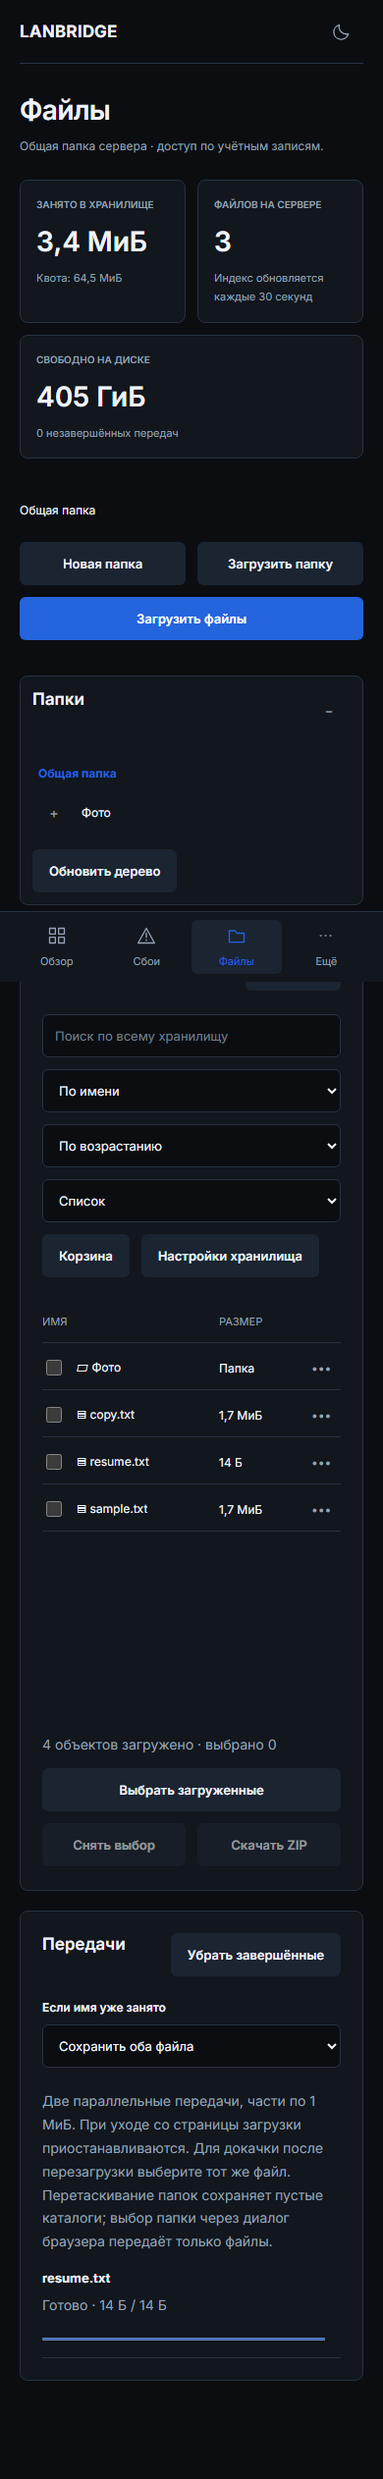
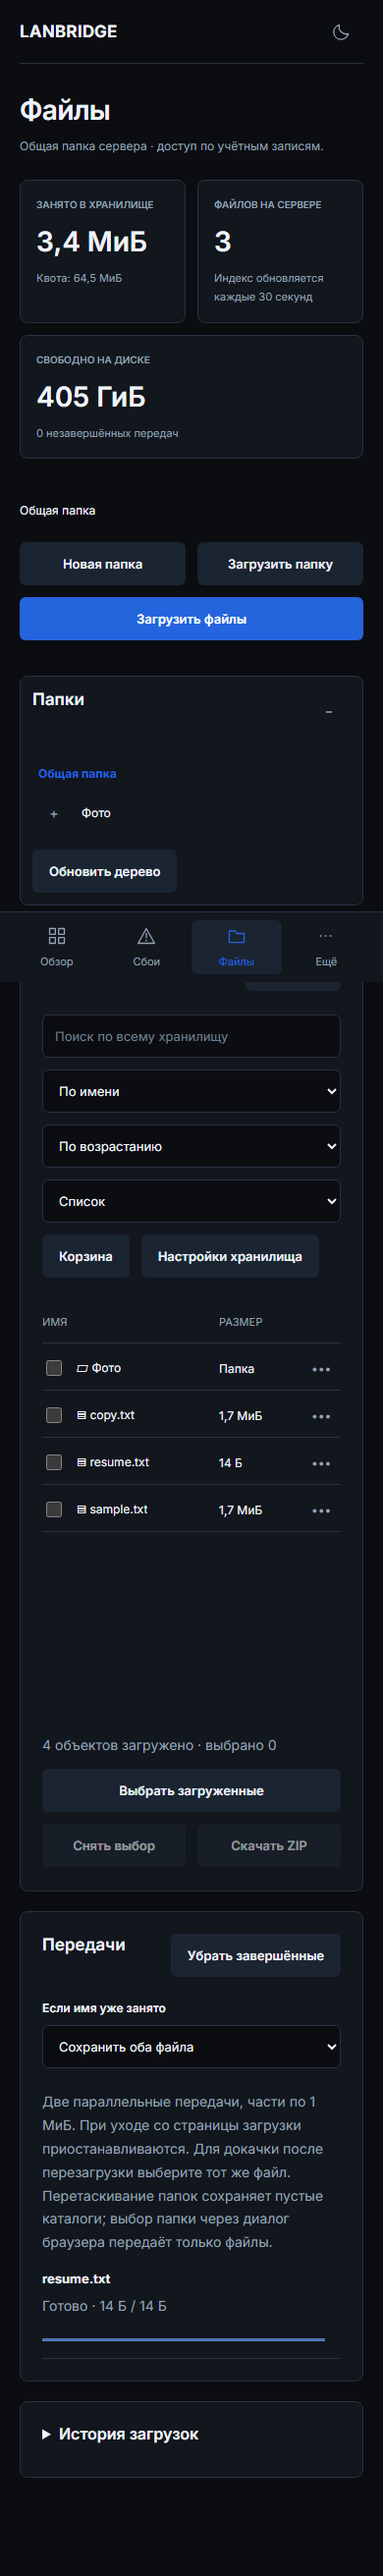
feat: show completed upload history

diff --git a/web/src/files.js b/web/src/files.js
@@ -4,6 +4,7 @@ import htm from 'htm';
 import {StorageSettings} from './storage-settings.js';
 import {FilePreview} from './file-preview.js';
 import {FolderTree} from './folder-tree.js';
+import {UploadHistory} from './upload-history.js';
 const html=htm.bind(h);
 export const bytes=n=>{if(!n)return '0 Б';const k=Math.min(4,Math.floor(Math.log(n)/Math.log(1024)));return (n/1024**k).toLocaleString('ru-RU',{maximumFractionDigits:1})+' '+['Б','КиБ','МиБ','ГиБ','ТиБ'][k]};
 const join=(folder,name)=>folder==='.'?name:folder+'/'+name;
@@ -62,6 +63,7 @@ export function FileBrowser({api,notify,user,csrf}){
  <div class="file-browser-layout"><${FolderTree} api=${api} folder=${folder} onNavigate=${path=>{setFolder(path);setQuery('')}}/><section class="panel file-panel" onDragOver=${e=>e.preventDefault()} onDrop=${dropped}><div class="panel-heading"><h2>Содержимое папки</h2><button class="button secondary" onClick=${()=>refresh()} disabled=${loading}>Обновить</button></div><div class="toolbar"><input aria-label="Поиск файлов" placeholder="Поиск по всему хранилищу" value=${query} onInput=${e=>setQuery(e.currentTarget.value)}/><select aria-label="Сортировка файлов" value=${sort} onChange=${e=>setSort(e.currentTarget.value)}><option value="name">По имени</option><option value="size">По размеру</option><option value="modified">По дате</option></select><select aria-label="Порядок сортировки" value=${order} onChange=${e=>setOrder(e.currentTarget.value)}><option value="asc">По возрастанию</option><option value="desc">По убыванию</option></select><select aria-label="Вид файлов" value=${view} onChange=${e=>setView(e.currentTarget.value)}><option value="list">Список</option><option value="grid">Плитки</option></select><button class="button secondary" onClick=${openTrash}>Корзина</button>${user.role==='admin'&&html`<button class="button secondary" disabled=${!storage} onClick=${()=>setDialog({action:'storage'})}>Настройки хранилища</button>`}</div>${error&&html`<p class="form-error" role="alert">${error}</p>`}
  <div class="file-list-head" hidden=${view==='grid'}><span>ИМЯ</span><span>РАЗМЕР</span><span>ИЗМЕНЁН</span><span>ДОСТУП</span></div><div class="file-viewport" ref=${viewport} onScroll=${e=>setScroll(e.currentTarget.scrollTop)} aria-label="Список файлов" aria-busy=${loading} role="list"><div style=${{height:Math.max(Math.ceil(items.length/columns)*rowHeight,items.length?0:140)+'px',position:'relative'}}>${visible.map((item,i)=>html`<div role="listitem" class=${view==='grid'?'file-row file-tile':'file-row'} key=${item.path} aria-posinset=${start+i+1} aria-setsize=${items.length} style=${view==='grid'?{top:(Math.floor((start+i)/columns)*rowHeight)+'px',left:((start+i)%columns*100/columns)+'%',width:'calc('+100/columns+'% - 10px)'}:{top:((start+i)*48)+'px'}}><div class="file-name"><input type="checkbox" aria-label=${'Выбрать '+item.name} checked=${selected.includes(item.path)} disabled=${!selected.includes(item.path)&&selected.length>=1000} onChange=${e=>toggleSelection(item.path,e.currentTarget.checked)}/>${item.directory?html`<button class="monitor-name" title=${item.path} onClick=${()=>{setFolder(item.path);setQuery('')}}>▱ ${item.name}</button>`:html`<a title=${item.path} href=${download(item.path)}>▤ ${item.name}</a>`}</div><span>${item.directory?'Папка':bytes(item.size)}</span><span>${new Date(item.modified/1e6).toLocaleDateString('ru-RU')}</span><div class="file-row-end"><span>${{users:'Пользователи',admin:'Администратор',read:'Чтение'}[item.access]}</span><button class="icon-button" aria-label=${'Действия: '+item.name} onClick=${()=>setDialog({action:'menu',item})}>•••</button></div></div>`)}${!items.length&&html`<div class="empty compact"><h3>${loading?'Загрузка…':query?'Ничего не найдено':'Папка пуста'}</h3><p>Перетащите сюда файлы или папки.</p></div>`}</div></div><div class="file-actions"><span class="muted">${items.length} объектов загружено · выбрано ${selected.length}</span><div class="dialog-actions">${more&&html`<button class="button secondary" disabled=${loading} onClick=${()=>refresh(true)}>Загрузить ещё</button>`}<button class="button secondary" disabled=${!items.length||loading} onClick=${selectLoaded}>${items.length>1000?'Выбрать первые 1000':'Выбрать загруженные'}</button><button class="button secondary" disabled=${!selected.length} onClick=${()=>setSelected([])}>Снять выбор</button><button class="button secondary" disabled=${!selected.length||zipTooLarge} onClick=${zip}>Скачать ZIP</button></div></div>${zipTooLarge&&html`<p class="warning" role="status">Сократите выбор: общий список имён слишком большой. Можно выбрать родительскую папку вместо отдельных файлов.</p>`}</section></div>
  <section class="panel"><div class="panel-heading"><h2>Передачи</h2><button class="button secondary" onClick=${()=>{jobs.current=jobs.current.filter(j=>j.state!=='complete');redraw()}}>Убрать завершённые</button></div><label class="field"><span>Если имя уже занято</span><select value=${conflict} onChange=${e=>setConflict(e.currentTarget.value)}><option value="both">Сохранить оба файла</option><option value="skip">Пропустить (показать конфликт)</option><option value="replace">Заменить существующий файл</option></select></label><p class="muted">Две параллельные передачи, части по 1 МиБ. При уходе со страницы загрузки приостанавливаются. Для докачки после перезагрузки выберите тот же файл. Перетаскивание папок сохраняет пустые каталоги; выбор папки через диалог браузера передаёт только файлы.</p><div class="upload-list">${queue.map(j=>html`<div class="upload-row" key=${j.key}><div><strong>${j.path}</strong><p class="muted">${labels[j.state]} · ${bytes(j.offset||0)} / ${bytes(j.size)}${j.state==='hashing'?' · '+Math.round(100*(j.hashed||0)/Math.max(1,j.size))+'%':j.state==='uploading'&&j.speed?' · '+bytes(j.speed)+'/с · осталось '+Math.ceil((j.size-j.offset)/j.speed)+' с':''}</p><progress max=${Math.max(1,j.size)} value=${j.state==='complete'?Math.max(1,j.size):j.offset||0}/>${j.error&&html`<p class="form-error">${j.error}</p>`}</div><div class="dialog-actions">${['hashing','uploading','finishing'].includes(j.state)?html`<button class="button secondary" onClick=${()=>j.controller?.abort()}>Пауза</button>`:['paused','choose','error'].includes(j.state)&&html`<button class="button secondary" onClick=${()=>resume(j)}>${j.file||j.serverState==='committing'?'Продолжить':'Выбрать файл'}</button>`}${j.state!=='complete'&&html`<button class="icon-button" aria-label=${'Отменить '+j.path} onClick=${()=>cancel(j)}>×</button>`}</div></div>`)}</div>${!queue.length&&html`<p class="muted">Нет активных передач.</p>`}</section>
+ <${UploadHistory} api=${api} formatSize=${bytes}/>
  ${dialog?.action==='storage'&&html`<${StorageSettings} settings=${storage.settings} api=${api} onClose=${()=>setDialog(null)} onSaved=${settings=>{setStorage({...storage,settings});setDialog(null);notify('Настройки хранилища сохранены')}}/>`}
  ${dialog?.action==='preview'&&html`<${FilePreview} item=${dialog.item} onClose=${()=>setDialog(null)}/>`}
  ${dialog&& !['storage','preview'].includes(dialog.action)&&html`<${FileDialog} onClose=${()=>setDialog(null)} title=${dialog.action==='menu'?dialog.item.name:({mkdir:'Новая папка',move:'Переместить или переименовать',copy:'Копировать',trash:'В корзину',access:'Права доступа'}[dialog.action])}>${dialog.action==='menu'?html`<div class="file-menu">${[...(!dialog.item.directory?['preview']:[]),'move','copy','trash',...(user.role==='admin'?['access']:[])].map(action=>html`<button class="button secondary" onClick=${()=>setDialog({...dialog,action})}>${{preview:'Предпросмотр',move:'Переместить / переименовать',copy:'Копировать',trash:'В корзину',access:'Права доступа'}[action]}</button>`)}</div>`:html`<form onSubmit=${operate}>${dialog.action==='trash'?html`<p>«${dialog.item.name}» будет перемещён в корзину. Срок хранения: ${storage?.settings.trash_days} дней; старые элементы также удаляются при превышении лимита корзины.</p>`:dialog.action==='access'?html`<label class="field"><span>Доступ</span><select name="access" defaultValue=${dialog.item.access}><option value="users">Пользователи: чтение и запись</option><option value="read">Пользователи: только чтение</option><option value="admin">Только администратор</option></select></label>`:html`<label class="field"><span>${dialog.action==='mkdir'?'Имя папки':'Полный путь относительно общей папки'}</span><input name="name" required defaultValue=${dialog.item?.path||''} autoFocus/></label>`}${['move','copy'].includes(dialog.action)&&html`<label class="field"><span>При совпадении имени</span><select name="conflict"><option value="skip">Не заменять</option><option value="both">Сохранить оба</option><option value="replace">Заменить (старый объект в корзину)</option></select></label>`}<div class="dialog-actions"><button type="button" class="button secondary" onClick=${()=>setDialog(null)}>Отмена</button><button class="button">Применить</button></div></form>`}</${FileDialog}>`}

diff --git a/web/src/upload-history.js b/web/src/upload-history.js
@@ -1,0 +1,24 @@
+import {h} from 'preact';
+import {useEffect,useState} from 'preact/hooks';
+import htm from 'htm';
+const html=htm.bind(h);
+export function UploadHistory({api,formatSize}) {
+ const[open,setOpen]=useState(false),[revision,setRevision]=useState(0),[items,setItems]=useState([]),[busy,setBusy]=useState(false),[error,setError]=useState(''),[query,setQuery]=useState(''),[page,setPage]=useState(0);
+ useEffect(()=>{
+  if(!open)return;
+  let active=true;setBusy(true);setError('');
+  api('transfers').then(data=>{if(active){setItems(data);setPage(0)}}).catch(e=>{if(active)setError(e.message)}).finally(()=>{if(active)setBusy(false)});
+  return()=>{active=false};
+ },[open,revision]);
+ const filtered=items.filter(item=>item.path.toLocaleLowerCase().includes(query.toLocaleLowerCase()));
+ return html`<details class="panel upload-history" onToggle=${e=>setOpen(e.currentTarget.open)}>
+  <summary>История загрузок</summary>
+  ${open&&html`<p class="muted">Последние 200 завершённых загрузок: свои, а для администратора — всех пользователей. Скачивания пока не записываются.</p>
+   <div class="toolbar"><input aria-label="Поиск в истории загрузок" placeholder="Поиск по пути" value=${query} onInput=${e=>{setQuery(e.currentTarget.value);setPage(0)}}/><button class="button secondary" disabled=${busy} onClick=${()=>setRevision(revision+1)}>Обновить историю</button></div>
+   ${error&&html`<p class="form-error" role="alert">${error}</p>`}
+   ${busy&&html`<p role="status">Загрузка истории…</p>`}
+   <div aria-busy=${busy}>${filtered.slice(page*25,page*25+25).map(item=>html`<div class="upload-row" key=${item.id}><div><strong>${item.path}</strong><p class="muted">${formatSize(item.size)} · Пользователь #${item.user_id} · ${item.finished?new Date(item.finished*1000).toLocaleString('ru-RU'):'—'}</p><span>${item.status==='complete'?'Завершено':item.status}</span>${item.error&&html`<p class="form-error">${item.error}</p>`}</div></div>`)}</div>
+   ${!busy&&!error&&!filtered.length&&html`<p class="muted">${query?'Ничего не найдено.':'История пока пуста.'}</p>`}
+   ${filtered.length>25&&html`<div class="dialog-actions"><button class="button secondary" disabled=${page===0} onClick=${()=>setPage(page-1)}>Предыдущие записи</button><span>${page*25+1}–${Math.min((page+1)*25,filtered.length)} / ${filtered.length}</span><button class="button secondary" disabled=${(page+1)*25>=filtered.length} onClick=${()=>setPage(page+1)}>Следующие записи</button></div>`}`}
+ </details>`;
+}

diff --git a/web/src/style.css b/web/src/style.css
@@ -28,3 +28,5 @@
 .file-browser-layout{display:grid;grid-template-columns:230px minmax(0,1fr);gap:20px;align-items:start}.file-browser-layout .file-panel{min-width:0}.folder-tree{padding:16px}.folder-tree nav{max-height:500px;overflow:auto;margin-bottom:16px}.folder-tree-row{display:flex;align-items:center;min-width:0}.folder-tree-row .icon-button{flex-shrink:0;min-width:32px}.folder-link{border:0;background:none;color:var(--text);text-align:left;min-height:36px;padding:6px;font:inherit;font-size:12px;overflow-wrap:anywhere;cursor:pointer}.folder-link[aria-current]{color:var(--accent);font-weight:700}.folder-link:disabled{opacity:.45;cursor:default}.folder-indent{margin-left:10px;border-left:1px solid var(--line)}.folder-pages{display:flex;align-items:center;justify-content:space-between;font-size:10px;color:var(--muted);gap:4px}.folder-branch .muted{font-size:11px;padding:0 6px}.file-browser-layout .file-row:not(.file-tile),.file-browser-layout .file-list-head{grid-template-columns:minmax(140px,1fr) 85px 95px 150px;gap:8px}
 @media(max-width:1200px){.file-browser-layout{grid-template-columns:1fr}.folder-tree nav{max-height:260px}}
 @media(max-width:700px){.file-browser-layout .file-row:not(.file-tile),.file-browser-layout .file-list-head{grid-template-columns:minmax(140px,1fr) 76px 40px}.folder-tree{padding:12px}}
+
+.upload-history summary{cursor:pointer;font-weight:600;font-size:16px;min-height:32px}.upload-history .toolbar{display:flex;gap:12px;flex-wrap:wrap}.upload-history .toolbar input{flex:1;min-width:140px}

diff --git a/scripts/verify_go_files.py b/scripts/verify_go_files.py
@@ -64,6 +64,13 @@ def main():
      content=b'hello file storage'*100000
      page.locator('input[type=file][multiple]:not([webkitdirectory])').set_input_files({"name":"sample.txt","mimeType":"text/plain","buffer":content})
      page.get_by_role('link',name='▤ sample.txt',exact=True).wait_for(timeout=30000)
+     page.locator('.upload-history summary').click()
+     page.locator('.upload-history strong').get_by_text('sample.txt',exact=True).wait_for()
+     page.get_by_label('Поиск в истории загрузок',exact=True).fill('несуществующий')
+     page.locator('.upload-history').get_by_text('Ничего не найдено.',exact=True).wait_for()
+     page.get_by_label('Поиск в истории загрузок',exact=True).fill('')
+     page.locator('.upload-history summary').click()
+
      page.get_by_label('Действия: sample.txt',exact=True).click()
      page.get_by_role('button',name='Предпросмотр',exact=True).click()
      page.locator('.file-preview-text').wait_for()

diff --git a/docs/progress.md b/docs/progress.md
@@ -10,7 +10,7 @@ Go-приложение со встроенным Preact-интерфейсом,
 WAL и резервными копиями. Мониторы, инциденты, очередь уведомлений, внешний
 heartbeat, обнаружение устройств и диагностика. Файловые папки и дерево, список/
 плитки, поиск/сортировка, загрузка с докачкой/SHA-256, Range/ZIP, корзина, ACL,
-квоты, текстовые и медиа-превью. Настройки оформления и пользователей.
+квоты, текстовые и медиа-превью, журнал завершённых загрузок. Настройки оформления и пользователей.
 
 Проверена передача 20 ГиБ с остановкой процесса, продолжением и полным скачиванием;
 результаты и ограничения: [performance.md](performance.md). Текущая готовность

diff --git a/README.md b/README.md
@@ -6,6 +6,7 @@
 > Уведомления, очередь и наблюдатель: [docs/go-notifications.md](docs/go-notifications.md).
 > Устройства и диагностика: [docs/go-devices.md](docs/go-devices.md).
 > Настройки квот доступны администратору в разделе «Файлы».
+> Под очередью передач доступна история завершённых загрузок с поиском.
 > Добавлено раскрываемое дерево папок с постраничной загрузкой.
 > Оставшиеся этапы: [docs/progress.md](docs/progress.md).
 > Для ZIP доступны массовый выбор загруженных объектов и снятие выбора.

diff --git a/CHANGELOG.md b/CHANGELOG.md
@@ -6,6 +6,9 @@
 
 ### Переход на Go
 
+- Добавлен журнал последних 200 завершённых загрузок: поиск, страницы по 25,
+  ручное обновление и загрузка данных только при раскрытии панели.
+
 - Добавлено раскрываемое дерево папок: загрузка по требованию, страницы по 50,
   проверка прав до пагинации, сворачивание панели и мобильная компоновка.
 - Исправлена гонка сброса прокрутки при переключении списка на плитки.
